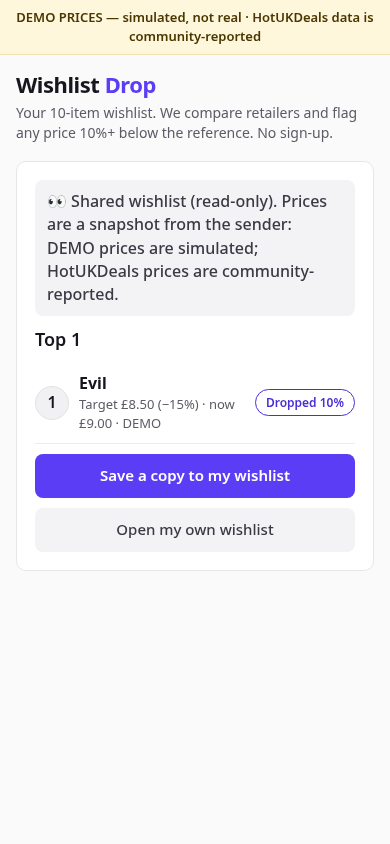
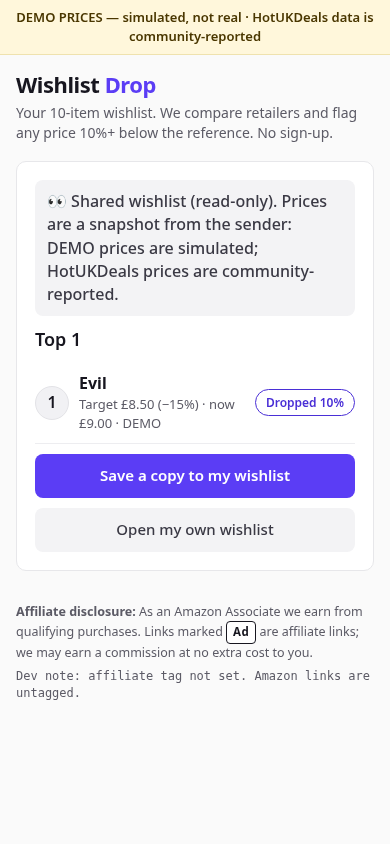
Affiliate links: Amazon UK Buy button (canonical /dp/ASIN, tag only via button, keep existing tags, strip tracking, rel=sponsored, Ad label), disclosure footer, disabled Skimlinks/Sovrn/Awin hooks, AF1-AF4 tests

Changed region(s): [[0.0308, 0.7085, 0.9231, 0.8318]]

diff --git a/build/src.html b/build/src.html
@@ -41,7 +41,11 @@ html:not([data-theme]) .bar{height:6px}html:not([data-theme]) #simBtn{background
 .demo{background:var(--demo-bg);color:var(--demo-ink);text-align:center;font-weight:var(--fw-h);padding:8px;font-size:14px;position:sticky;top:0;z-index:5}
 header{padding:14px 16px 0;max-width:720px;margin:auto}.hrow{display:flex;justify-content:space-between;align-items:center;gap:8px}h1{margin:0;font-size:var(--h1);font-weight:var(--fw-x);letter-spacing:-.01em}h1 span{color:var(--accent-lg)}header p{margin:2px 0 0;color:var(--mut);font-size:14px}
 .theme{display:flex;align-items:center;gap:6px;font-size:13px;color:var(--mut)}.theme label{margin:0;font-weight:var(--fw-b);font-size:13px}.theme select{width:auto;min-height:44px;padding:6px 8px;font-size:14px;border-radius:var(--rs)}
-main{max-width:720px;margin:auto;padding:4px 16px 96px}
+main{max-width:720px;margin:auto;padding:4px 16px 8px}
+.foot-legal{max-width:720px;margin:auto;padding:4px 16px 96px;font-size:12.5px;color:var(--mut)}.foot-legal p{margin:6px 0}.devnote{font-family:ui-monospace,Menlo,monospace;font-size:12px}
+.buy{display:flex;align-items:center;gap:8px;margin-top:8px}.buybtn{display:inline-flex;align-items:center;justify-content:center;min-height:44px;padding:10px 16px;border-radius:var(--rs);background:var(--cta);color:var(--cta-ink);font-weight:var(--fw-h);text-decoration:none;font-size:15px}
+.buybtn:focus-visible{outline:3px solid var(--focus);outline-offset:2px}ol.top .buybtn{min-height:44px;padding:8px 14px;font-size:14px}
+.ad{display:inline-block;font-size:11.5px;font-weight:700;letter-spacing:.04em;padding:2px 6px;border:1px solid currentColor;border-radius:4px;color:var(--ink);background:var(--card)}
 section{background:var(--card);border-radius:var(--r);padding:16px;margin:12px 0;box-shadow:var(--shadow);border:var(--sec-border)}
 h2{font-size:18px;font-weight:var(--fw-h);margin:0 0 10px;display:flex;justify-content:space-between;align-items:center;gap:8px}
 label{display:block;font-weight:var(--fw-b);font-size:14px;margin:10px 0 4px}
@@ -153,6 +157,7 @@ if(t!=='default')window.WD_LOAD_FONTS();})();
  <div class="msg" id="shareMsg" role="status" aria-live="polite"></div></section></div>
 </div>
 </main>
+<footer class="foot-legal" id="legal"><p><b>Affiliate disclosure:</b> As an Amazon Associate we earn from qualifying purchases. Links marked <span class="ad">Ad</span> are affiliate links; we may earn a commission at no extra cost to you.</p><p id="devNote" class="devnote" hidden>Dev note: affiliate tag not set. Amazon links are untagged.</p></footer>
 <div id="dlg" class="dlg" role="dialog" aria-modal="true" aria-labelledby="dlgMsg" hidden><form id="dlgForm" class="dlgbox" novalidate><p id="dlgMsg"></p><div id="dlgInWrap"><label for="dlgIn" class="sr">Your answer</label><input type="text" id="dlgIn" inputmode="decimal" autocomplete="off"></div><div class="row"><button type="button" id="dlgCancel">Cancel</button><button type="submit" class="pri" id="dlgOk">OK</button></div></form></div>
 <div id="storeWarn" class="storewarn" role="alert" hidden>⚠ Your browser isn’t saving data (private mode, blocked or full storage). Your list will be lost when you close this tab.</div>
 <nav class="tabs" id="tabsNav" aria-label="Sections"><div role="tablist" id="tabs" aria-label="Sections"><button role="tab" aria-selected="true" data-t="watch" id="t-watch" aria-controls="tab-watch" tabindex="0">📋<br>Watch</button><button role="tab" aria-selected="false" data-t="alerts" id="t-alerts" aria-controls="tab-alerts" tabindex="-1">🔔<br>Alerts <span id="badge"></span></button><button role="tab" aria-selected="false" data-t="share" id="t-share" aria-controls="tab-share" tabindex="-1">🏆<br>Top 10</button></div></nav>
@@ -168,6 +173,46 @@ var toP=function(n){return Math.round(+n*100)};
 function uid(){return Math.random().toString(36).slice(2,9)}
 function esc(s){return String(s==null?'':s).replace(/[&<>"']/g,function(c){return'&#'+c.charCodeAt(0)+';'})}
 function safeUrl(u){u=String(u||'');return /^https?:\/\//i.test(u)?u:''}
+
+/* ================= Affiliate links =================
+   >>> NATHAN: put your Amazon Associates UK tracking ID in AFFILIATE.amazonUK.tag (e.g. 'wishlistdrop-21'). <<<
+   Empty tag = links stay untagged and a dev note shows "affiliate tag not set".
+   Rules: only the "Buy on Amazon" button is ever tagged (never the item's own link, never automatically);
+   an existing tag= from someone else is kept and ours is NOT added; tracking params are stripped;
+   tagged links get rel="sponsored noopener" and a visible "Ad" label; the footer carries the Amazon disclosure. */
+var AFFILIATE={
+ amazonUK:{tag:''},                                   // <- Amazon Associates UK tag goes here
+ skimlinks:{id:'',enabled:false},                     // non-Amazon hooks: disabled until approved
+ sovrn:{key:'',enabled:false},
+ awin:{publisherId:'',enabled:false}
+};
+(function(o){if(o&&typeof o==='object'){for(var k in o)if(AFFILIATE[k]&&o[k])for(var j in o[k])AFFILIATE[k][j]=o[k][j]}})(window.WD_AFFILIATE); // test/dev override only
+var AMZ_HOST=/^(?:www\.|smile\.|m\.)?amazon\.co\.uk$/i,AMZ_SHORT=/^(?:www\.)?(?:amzn\.to|amzn\.eu)$/i,
+ ASIN_RE=/\/(?:dp|gp\/product|gp\/aw\/d|gp\/offer-listing|exec\/obidos\/ASIN|o\/ASIN)\/([A-Z0-9]{10})(?=[\/?#]|$)/i,
+ TRACKING=/^(utm_.*|ref|ref_|pf_rd_.*|pd_rd_.*|_encoding|psc|qid|sr|crid|sprefix|keywords|th|linkCode|linkId|camp|creative|creativeASIN|ascsubtag|smid|spLa|content-id|dib|dib_tag|gclid|fbclid|mc_.*|social_share|starsLeft|tracking_id)$/i;
+function parseAmazon(u){var url;try{url=new URL(/^https?:\/\//i.test(String(u))?u:'https://'+u)}catch(e){return{kind:'other'}}
+ var h=url.hostname.toLowerCase();if(AMZ_SHORT.test(h))return{kind:'amazon-short',url:url.href};
+ if(!AMZ_HOST.test(h))return{kind:'other',url:url.href};
+ var m=url.pathname.match(ASIN_RE),theirs=url.searchParams.get('tag')||'';
+ return{kind:'amazon',asin:m?m[1].toUpperCase():null,existingTag:theirs,url:url.href}}
+function stripTracking(href){try{var u=new URL(href),keep=[];u.searchParams.forEach(function(v,k){if(!TRACKING.test(k))keep.push([k,v])});u.search='';keep.forEach(function(kv){u.searchParams.append(kv[0],kv[1])});u.hash='';return u.toString()}catch(e){return href}}
+/* Pluggable non-Amazon hooks (Skimlinks / Sovrn / Awin deep links). All disabled: wrap() is never called while enabled=false. */
+var RETAILER_HOOKS=[
+ {id:'skimlinks',enabled:function(){return AFFILIATE.skimlinks.enabled&&!!AFFILIATE.skimlinks.id},wrap:function(u){return 'https://go.skimresources.com/?id='+encodeURIComponent(AFFILIATE.skimlinks.id)+'&url='+encodeURIComponent(u)}},
+ {id:'sovrn',enabled:function(){return AFFILIATE.sovrn.enabled&&!!AFFILIATE.sovrn.key},wrap:function(u){return 'https://redirect.viglink.com?key='+encodeURIComponent(AFFILIATE.sovrn.key)+'&u='+encodeURIComponent(u)}},
+ {id:'awin',enabled:function(){return AFFILIATE.awin.enabled&&!!AFFILIATE.awin.publisherId},wrap:function(u,adv){return adv?'https://www.awin1.com/cread.php?awinmid='+encodeURIComponent(adv)+'&awinaffid='+encodeURIComponent(AFFILIATE.awin.publisherId)+'&ued='+encodeURIComponent(u):null}}];
+/* buyLink(url) -> {show, href, ad, retailer, note}. Pure; used only to build the Buy button. */
+function buyLink(raw){var safe=safeUrl(raw)||(raw&&/^(www\.)?[\w-]+(\.[\w-]+)+\//i.test(raw)?'https://'+raw:'');if(!safe)return{show:false};var a=parseAmazon(safe),tag=String(AFFILIATE.amazonUK.tag||'').trim();
+ if(a.kind==='amazon-short')return{show:true,retailer:'Amazon',href:a.url,ad:false,note:'Short Amazon link (amzn.to/amzn.eu) cannot be resolved in the browser, so it is left untagged.'};
+ if(a.kind==='amazon'){if(!a.asin)return{show:true,retailer:'Amazon',href:stripTracking(a.url),ad:false,note:'No product ID (ASIN) found, so the link is left untagged.'};
+  var base='https://www.amazon.co.uk/dp/'+a.asin;
+  if(a.existingTag)return{show:true,retailer:'Amazon',asin:a.asin,href:base+'?tag='+encodeURIComponent(a.existingTag),ad:false,note:'Link already carries someone else\u2019s tag; kept, ours not added.'};
+  if(!tag)return{show:true,retailer:'Amazon',asin:a.asin,href:base,ad:false,note:'affiliate tag not set'};
+  return{show:true,retailer:'Amazon',asin:a.asin,href:base+'?tag='+encodeURIComponent(tag),ad:true,note:''}}
+ for(var i=0;i<RETAILER_HOOKS.length;i++){var hk=RETAILER_HOOKS[i];if(hk.enabled()){var w=hk.wrap(stripTracking(safe));if(w)return{show:true,retailer:hostOf(safe),href:w,ad:true,note:'',hook:hk.id}}}
+ return{show:false}}
+function buyHtml(raw,where){var b=buyLink(raw);if(!b.show)return'';
+ return'<div class="buy"><a class="buybtn" href="'+esc(b.href)+'" target="_blank" rel="'+(b.ad?'sponsored noopener':'noopener')+'" data-where="'+where+'"'+(b.note?' title="'+esc(b.note)+'"':'')+'>Buy on '+esc(b.retailer)+'</a>'+(b.ad?'<span class="ad" title="Affiliate link: we may earn a commission">Ad</span>':'')+'</div>'}
 function isUrl(s){s=s.trim();return /^(https?:\/\/|www\.)\S+$/i.test(s)||/^[\w-]+(\.[\w-]+)+\/\S*$/.test(s)}
 function nameFromUrl(s){try{var u=new URL(/^https?:/i.test(s)?s:'https://'+s);var segs=u.pathname.split('/').filter(Boolean).map(decodeURIComponent).filter(function(x){return /[a-z]{3}/i.test(x)&&!/^(dp|p|product|products|item|itm|gp|ref|deals)$/i.test(x)});
  var slug=segs.sort(function(a,b){return b.length-a.length})[0];
@@ -246,7 +291,7 @@ function applyRecord(it,r){it.rec=stripPriv(r);it.match=r._match||null;if(r.erro
  if(!it.hist.length)it.hist=[{date:it.added,price:it.orig}];checkHit(it)}
 function checkHit(it){var ok=it.rec&&it.rec.error_state==='ok';var at=ok&&it.cur!=null&&it.cur<=targetOf(it);
  if(at&&!it.hit){var src=it.rec.source==='hukd_rss'?'HotUKDeals (community reported)':(it.rec.label==='DEMO'?'DEMO (simulated)':'Manual');
-  S.alerts.unshift({id:uid(),t:nowIso(),src:src,text:it.name+' hit your '+it.pct+'% target: now '+gbp(it.cur)+' (was '+gbp(it.orig)+', target '+gbp(targetOf(it))+').'+(it.rec.promo_code?' Community-reported code: '+it.rec.promo_code+'.':'')});S.alerts=S.alerts.slice(0,100)}
+  S.alerts.unshift({id:uid(),t:nowIso(),url:it.url||'',src:src,text:it.name+' hit your '+it.pct+'% target: now '+gbp(it.cur)+' (was '+gbp(it.orig)+', target '+gbp(targetOf(it))+').'+(it.rec.promo_code?' Community-reported code: '+it.rec.promo_code+'.':'')});S.alerts=S.alerts.slice(0,100)}
  if(ok)it.hit=at}
 var COMPARE=['demo','hukd_rss','awin_feed','awin_promotions','keepa'];
 function offersFrom(a,it,opts){return a.getOffers?a.getOffers(it,opts):a.getPrice(it,opts).then(function(r){return[r]})}
@@ -260,7 +305,7 @@ function bestOffer(it){return it.offers&&it.offers[0]||null}
 function gapPct(it){var b=bestOffer(it);return b?(it.orig-b.current_price)/it.orig*100:0}
 function srcName(o){return o.source==='hukd_rss'?'HotUKDeals, community reported':o.label==='DEMO'?'DEMO, simulated':o.source}
 function checkDrop(it){var g=gapPct(it),b=bestOffer(it),on=g>=10;
- if(on&&!it.drop10){S.alerts.unshift({id:uid(),t:nowIso(),src:srcName(b),text:'\u2b07\ufe0f '+it.name+' is '+g.toFixed(0)+'% below its reference price: '+gbp(b.current_price)+' at '+b.retailer+' (reference '+gbp(it.orig)+').'})}
+ if(on&&!it.drop10){S.alerts.unshift({id:uid(),t:nowIso(),url:it.url||'',src:srcName(b),text:'\u2b07\ufe0f '+it.name+' is '+g.toFixed(0)+'% below its reference price: '+gbp(b.current_price)+' at '+b.retailer+' (reference '+gbp(it.orig)+').'})}
  it.drop10=on}
 function refreshAll(opts){return Promise.all(S.items.map(function(it){return refreshItem(it,opts)})).then(function(){save();render()})}
 function simulate(){return refreshAll({step:true})}
@@ -344,8 +389,8 @@ function render(){$('count').textContent=S.items.length+'/10';$('welcome').hidde
   '<div class="stats"><div>Original<b>'+gbp(it.orig)+'</b></div><div>Now<b>'+gbp(cur)+'</b></div><div>Change<b class="'+(ch<0?'down':ch>0?'up':'')+'">'+(ch>0?'+':'')+ch.toFixed(1)+'%</b></div><div>Target −'+it.pct+'%<b>'+gbp(t)+'</b></div></div>'+
   '<div class="bar'+(prog>=100?' done':'')+'" role="progressbar" aria-label="Progress to target" aria-valuemin="0" aria-valuemax="100" aria-valuenow="'+Math.round(prog)+'"><i style="width:'+prog+'%"></i></div>'+
   errBox(it)+cmpBox(it)+dealBox(it)+
-  '<div class="foot">'+spark(it.hist||[],t)+'<div class="row" style="flex:0"><button data-a="edit" aria-label="Edit '+esc(it.name)+'">Edit</button><button class="danger" data-a="del" aria-label="Delete '+esc(it.name)+'">Delete</button></div></div>';c.appendChild(d)});
- $('feed').innerHTML=S.alerts.length?S.alerts.map(function(a){return'<div class="alert">🎯 '+esc(a.text)+'<time datetime="'+a.t+'">'+new Date(a.t).toLocaleString('en-GB')+' · '+esc(a.src||'DEMO')+'</time></div>'}).join(''):'<p class="empty">No alerts yet. Try \u201cSimulate a day\u201d.</p>';
+  buyHtml(it.url,'card')+'<div class="foot">'+spark(it.hist||[],t)+'<div class="row" style="flex:0"><button data-a="edit" aria-label="Edit '+esc(it.name)+'">Edit</button><button class="danger" data-a="del" aria-label="Delete '+esc(it.name)+'">Delete</button></div></div>';c.appendChild(d)});
+ $('feed').innerHTML=S.alerts.length?S.alerts.map(function(a){return'<div class="alert">🎯 '+esc(a.text)+'<time datetime="'+a.t+'">'+new Date(a.t).toLocaleString('en-GB')+' · '+esc(a.src||'DEMO')+'</time>'+buyHtml(a.url,'alert')+'</div>'}).join(''):'<p class="empty">No alerts yet. Try \u201cSimulate a day\u201d.</p>';
  $('badge').textContent=S.alerts.length?'('+S.alerts.length+')':'';
  $('topList').innerHTML=topHtml(shareList());
  $('seedBtn').hidden=S.items.some(function(i){return i.example});
@@ -355,7 +400,7 @@ function shareList(){return S.items.map(function(i){return{n:i.name,u:i.url,o:i.
 function rank(list){return list.slice().sort(function(a,b){return(a.c/(a.o*(1-a.p/100)))-(b.c/(b.o*(1-b.p/100)))})}
 function stOf(x){return status({orig:x.o,cur:x.c,pct:x.p,rec:{error_state:x.e||'ok'}})}
 function srcLabel(s){return s==='hukd_rss'?'community reported':s==='demo'?'DEMO':s==='manual'?'manual':'n/a'}
-function topHtml(list){if(!list.length)return'<li class="empty" style="display:block">No items yet.</li>';return rank(list).map(function(x){var st=stOf(x);return'<li><div class="g"><b>'+esc(x.n)+'</b><div class="small">Target '+gbp(Math.round(x.o*(1-x.p/100)))+' (−'+x.p+'%) · now '+gbp(x.c)+' · '+srcLabel(x.s)+'</div></div><span class="pill '+st[1]+'"'+(st[1]=='p-d'||st[1]=='p-t'?pillAttr({orig:x.o,cur:x.c}):'')+'>'+st[0]+'</span></li>'}).join('')}
+function topHtml(list){if(!list.length)return'<li class="empty" style="display:block">No items yet.</li>';return rank(list).map(function(x){var st=stOf(x);return'<li><div class="g"><b>'+esc(x.n)+'</b><div class="small">Target '+gbp(Math.round(x.o*(1-x.p/100)))+' (−'+x.p+'%) · now '+gbp(x.c)+' · '+srcLabel(x.s)+'</div>'+buyHtml(x.u,'top')+'</div><span class="pill '+st[1]+'"'+(st[1]=='p-d'||st[1]=='p-t'?pillAttr({orig:x.o,cur:x.c}):'')+'>'+st[0]+'</span></li>'}).join('')}
 $('cards').onclick=function(e){var b=e.target.closest('button');if(!b)return;var id=b.closest('.card').dataset.id,it=S.items.find(function(x){return x.id==id}),a=b.dataset.a;
  if(a=='del'){ask('Delete \u201c'+it.name+'\u201d?',{ok:'Delete',danger:true}).then(function(y){if(!y)return;S.items=S.items.filter(function(x){return x.id!=id});if(editing==id)resetForm();save();render()})}
  else if(a=='retry'){refreshItem(it).then(function(){save();render()})}
@@ -427,6 +472,9 @@ var hasThemeParam=false;try{hasThemeParam=new URLSearchParams(location.search).h
 $('themeBox').hidden=!(hasThemeParam||curTheme()!=='default');
 $('themeSel').value=curTheme();$('themeSel').onchange=function(){setTheme(this.value,true)};
 WD.setTheme=setTheme;WD.theme=curTheme;
+
+$('devNote').hidden=!!String(AFFILIATE.amazonUK.tag||'').trim();if(!$('devNote').hidden&&window.console)console.info('[Wishlist Drop] affiliate tag not set: Amazon links are untagged.');
+WD.affiliate={config:AFFILIATE,parseAmazon:parseAmazon,buyLink:buyLink,stripTracking:stripTracking,hooks:RETAILER_HOOKS};
 
 /* ================= Boot ================= */
 if(!storageOk())storeWarn();

diff --git a/index.html b/index.html
@@ -41,7 +41,11 @@ html:not([data-theme]) .bar{height:6px}html:not([data-theme]) #simBtn{background
 .demo{background:var(--demo-bg);color:var(--demo-ink);text-align:center;font-weight:var(--fw-h);padding:8px;font-size:14px;position:sticky;top:0;z-index:5}
 header{padding:14px 16px 0;max-width:720px;margin:auto}.hrow{display:flex;justify-content:space-between;align-items:center;gap:8px}h1{margin:0;font-size:var(--h1);font-weight:var(--fw-x);letter-spacing:-.01em}h1 span{color:var(--accent-lg)}header p{margin:2px 0 0;color:var(--mut);font-size:14px}
 .theme{display:flex;align-items:center;gap:6px;font-size:13px;color:var(--mut)}.theme label{margin:0;font-weight:var(--fw-b);font-size:13px}.theme select{width:auto;min-height:44px;padding:6px 8px;font-size:14px;border-radius:var(--rs)}
-main{max-width:720px;margin:auto;padding:4px 16px 96px}
+main{max-width:720px;margin:auto;padding:4px 16px 8px}
+.foot-legal{max-width:720px;margin:auto;padding:4px 16px 96px;font-size:12.5px;color:var(--mut)}.foot-legal p{margin:6px 0}.devnote{font-family:ui-monospace,Menlo,monospace;font-size:12px}
+.buy{display:flex;align-items:center;gap:8px;margin-top:8px}.buybtn{display:inline-flex;align-items:center;justify-content:center;min-height:44px;padding:10px 16px;border-radius:var(--rs);background:var(--cta);color:var(--cta-ink);font-weight:var(--fw-h);text-decoration:none;font-size:15px}
+.buybtn:focus-visible{outline:3px solid var(--focus);outline-offset:2px}ol.top .buybtn{min-height:44px;padding:8px 14px;font-size:14px}
+.ad{display:inline-block;font-size:11.5px;font-weight:700;letter-spacing:.04em;padding:2px 6px;border:1px solid currentColor;border-radius:4px;color:var(--ink);background:var(--card)}
 section{background:var(--card);border-radius:var(--r);padding:16px;margin:12px 0;box-shadow:var(--shadow);border:var(--sec-border)}
 h2{font-size:18px;font-weight:var(--fw-h);margin:0 0 10px;display:flex;justify-content:space-between;align-items:center;gap:8px}
 label{display:block;font-weight:var(--fw-b);font-size:14px;margin:10px 0 4px}
@@ -153,6 +157,7 @@ if(t!=='default')window.WD_LOAD_FONTS();})();
  <div class="msg" id="shareMsg" role="status" aria-live="polite"></div></section></div>
 </div>
 </main>
+<footer class="foot-legal" id="legal"><p><b>Affiliate disclosure:</b> As an Amazon Associate we earn from qualifying purchases. Links marked <span class="ad">Ad</span> are affiliate links; we may earn a commission at no extra cost to you.</p><p id="devNote" class="devnote" hidden>Dev note: affiliate tag not set. Amazon links are untagged.</p></footer>
 <div id="dlg" class="dlg" role="dialog" aria-modal="true" aria-labelledby="dlgMsg" hidden><form id="dlgForm" class="dlgbox" novalidate><p id="dlgMsg"></p><div id="dlgInWrap"><label for="dlgIn" class="sr">Your answer</label><input type="text" id="dlgIn" inputmode="decimal" autocomplete="off"></div><div class="row"><button type="button" id="dlgCancel">Cancel</button><button type="submit" class="pri" id="dlgOk">OK</button></div></form></div>
 <div id="storeWarn" class="storewarn" role="alert" hidden>⚠ Your browser isn’t saving data (private mode, blocked or full storage). Your list will be lost when you close this tab.</div>
 <nav class="tabs" id="tabsNav" aria-label="Sections"><div role="tablist" id="tabs" aria-label="Sections"><button role="tab" aria-selected="true" data-t="watch" id="t-watch" aria-controls="tab-watch" tabindex="0">📋<br>Watch</button><button role="tab" aria-selected="false" data-t="alerts" id="t-alerts" aria-controls="tab-alerts" tabindex="-1">🔔<br>Alerts <span id="badge"></span></button><button role="tab" aria-selected="false" data-t="share" id="t-share" aria-controls="tab-share" tabindex="-1">🏆<br>Top 10</button></div></nav>
@@ -171,6 +176,46 @@ var toP=function(n){return Math.round(+n*100)};
 function uid(){return Math.random().toString(36).slice(2,9)}
 function esc(s){return String(s==null?'':s).replace(/[&<>"']/g,function(c){return'&#'+c.charCodeAt(0)+';'})}
 function safeUrl(u){u=String(u||'');return /^https?:\/\//i.test(u)?u:''}
+
+/* ================= Affiliate links =================
+   >>> NATHAN: put your Amazon Associates UK tracking ID in AFFILIATE.amazonUK.tag (e.g. 'wishlistdrop-21'). <<<
+   Empty tag = links stay untagged and a dev note shows "affiliate tag not set".
+   Rules: only the "Buy on Amazon" button is ever tagged (never the item's own link, never automatically);
+   an existing tag= from someone else is kept and ours is NOT added; tracking params are stripped;
+   tagged links get rel="sponsored noopener" and a visible "Ad" label; the footer carries the Amazon disclosure. */
+var AFFILIATE={
+ amazonUK:{tag:''},                                   // <- Amazon Associates UK tag goes here
+ skimlinks:{id:'',enabled:false},                     // non-Amazon hooks: disabled until approved
+ sovrn:{key:'',enabled:false},
+ awin:{publisherId:'',enabled:false}
+};
+(function(o){if(o&&typeof o==='object'){for(var k in o)if(AFFILIATE[k]&&o[k])for(var j in o[k])AFFILIATE[k][j]=o[k][j]}})(window.WD_AFFILIATE); // test/dev override only
+var AMZ_HOST=/^(?:www\.|smile\.|m\.)?amazon\.co\.uk$/i,AMZ_SHORT=/^(?:www\.)?(?:amzn\.to|amzn\.eu)$/i,
+ ASIN_RE=/\/(?:dp|gp\/product|gp\/aw\/d|gp\/offer-listing|exec\/obidos\/ASIN|o\/ASIN)\/([A-Z0-9]{10})(?=[\/?#]|$)/i,
+ TRACKING=/^(utm_.*|ref|ref_|pf_rd_.*|pd_rd_.*|_encoding|psc|qid|sr|crid|sprefix|keywords|th|linkCode|linkId|camp|creative|creativeASIN|ascsubtag|smid|spLa|content-id|dib|dib_tag|gclid|fbclid|mc_.*|social_share|starsLeft|tracking_id)$/i;
+function parseAmazon(u){var url;try{url=new URL(/^https?:\/\//i.test(String(u))?u:'https://'+u)}catch(e){return{kind:'other'}}
+ var h=url.hostname.toLowerCase();if(AMZ_SHORT.test(h))return{kind:'amazon-short',url:url.href};
+ if(!AMZ_HOST.test(h))return{kind:'other',url:url.href};
+ var m=url.pathname.match(ASIN_RE),theirs=url.searchParams.get('tag')||'';
+ return{kind:'amazon',asin:m?m[1].toUpperCase():null,existingTag:theirs,url:url.href}}
+function stripTracking(href){try{var u=new URL(href),keep=[];u.searchParams.forEach(function(v,k){if(!TRACKING.test(k))keep.push([k,v])});u.search='';keep.forEach(function(kv){u.searchParams.append(kv[0],kv[1])});u.hash='';return u.toString()}catch(e){return href}}
+/* Pluggable non-Amazon hooks (Skimlinks / Sovrn / Awin deep links). All disabled: wrap() is never called while enabled=false. */
+var RETAILER_HOOKS=[
+ {id:'skimlinks',enabled:function(){return AFFILIATE.skimlinks.enabled&&!!AFFILIATE.skimlinks.id},wrap:function(u){return 'https://go.skimresources.com/?id='+encodeURIComponent(AFFILIATE.skimlinks.id)+'&url='+encodeURIComponent(u)}},
+ {id:'sovrn',enabled:function(){return AFFILIATE.sovrn.enabled&&!!AFFILIATE.sovrn.key},wrap:function(u){return 'https://redirect.viglink.com?key='+encodeURIComponent(AFFILIATE.sovrn.key)+'&u='+encodeURIComponent(u)}},
+ {id:'awin',enabled:function(){return AFFILIATE.awin.enabled&&!!AFFILIATE.awin.publisherId},wrap:function(u,adv){return adv?'https://www.awin1.com/cread.php?awinmid='+encodeURIComponent(adv)+'&awinaffid='+encodeURIComponent(AFFILIATE.awin.publisherId)+'&ued='+encodeURIComponent(u):null}}];
+/* buyLink(url) -> {show, href, ad, retailer, note}. Pure; used only to build the Buy button. */
+function buyLink(raw){var safe=safeUrl(raw)||(raw&&/^(www\.)?[\w-]+(\.[\w-]+)+\//i.test(raw)?'https://'+raw:'');if(!safe)return{show:false};var a=parseAmazon(safe),tag=String(AFFILIATE.amazonUK.tag||'').trim();
+ if(a.kind==='amazon-short')return{show:true,retailer:'Amazon',href:a.url,ad:false,note:'Short Amazon link (amzn.to/amzn.eu) cannot be resolved in the browser, so it is left untagged.'};
+ if(a.kind==='amazon'){if(!a.asin)return{show:true,retailer:'Amazon',href:stripTracking(a.url),ad:false,note:'No product ID (ASIN) found, so the link is left untagged.'};
+  var base='https://www.amazon.co.uk/dp/'+a.asin;
+  if(a.existingTag)return{show:true,retailer:'Amazon',asin:a.asin,href:base+'?tag='+encodeURIComponent(a.existingTag),ad:false,note:'Link already carries someone else\u2019s tag; kept, ours not added.'};
+  if(!tag)return{show:true,retailer:'Amazon',asin:a.asin,href:base,ad:false,note:'affiliate tag not set'};
+  return{show:true,retailer:'Amazon',asin:a.asin,href:base+'?tag='+encodeURIComponent(tag),ad:true,note:''}}
+ for(var i=0;i<RETAILER_HOOKS.length;i++){var hk=RETAILER_HOOKS[i];if(hk.enabled()){var w=hk.wrap(stripTracking(safe));if(w)return{show:true,retailer:hostOf(safe),href:w,ad:true,note:'',hook:hk.id}}}
+ return{show:false}}
+function buyHtml(raw,where){var b=buyLink(raw);if(!b.show)return'';
+ return'<div class="buy"><a class="buybtn" href="'+esc(b.href)+'" target="_blank" rel="'+(b.ad?'sponsored noopener':'noopener')+'" data-where="'+where+'"'+(b.note?' title="'+esc(b.note)+'"':'')+'>Buy on '+esc(b.retailer)+'</a>'+(b.ad?'<span class="ad" title="Affiliate link: we may earn a commission">Ad</span>':'')+'</div>'}
 function isUrl(s){s=s.trim();return /^(https?:\/\/|www\.)\S+$/i.test(s)||/^[\w-]+(\.[\w-]+)+\/\S*$/.test(s)}
 function nameFromUrl(s){try{var u=new URL(/^https?:/i.test(s)?s:'https://'+s);var segs=u.pathname.split('/').filter(Boolean).map(decodeURIComponent).filter(function(x){return /[a-z]{3}/i.test(x)&&!/^(dp|p|product|products|item|itm|gp|ref|deals)$/i.test(x)});
  var slug=segs.sort(function(a,b){return b.length-a.length})[0];
@@ -249,7 +294,7 @@ function applyRecord(it,r){it.rec=stripPriv(r);it.match=r._match||null;if(r.erro
  if(!it.hist.length)it.hist=[{date:it.added,price:it.orig}];checkHit(it)}
 function checkHit(it){var ok=it.rec&&it.rec.error_state==='ok';var at=ok&&it.cur!=null&&it.cur<=targetOf(it);
  if(at&&!it.hit){var src=it.rec.source==='hukd_rss'?'HotUKDeals (community reported)':(it.rec.label==='DEMO'?'DEMO (simulated)':'Manual');
-  S.alerts.unshift({id:uid(),t:nowIso(),src:src,text:it.name+' hit your '+it.pct+'% target: now '+gbp(it.cur)+' (was '+gbp(it.orig)+', target '+gbp(targetOf(it))+').'+(it.rec.promo_code?' Community-reported code: '+it.rec.promo_code+'.':'')});S.alerts=S.alerts.slice(0,100)}
+  S.alerts.unshift({id:uid(),t:nowIso(),url:it.url||'',src:src,text:it.name+' hit your '+it.pct+'% target: now '+gbp(it.cur)+' (was '+gbp(it.orig)+', target '+gbp(targetOf(it))+').'+(it.rec.promo_code?' Community-reported code: '+it.rec.promo_code+'.':'')});S.alerts=S.alerts.slice(0,100)}
  if(ok)it.hit=at}
 var COMPARE=['demo','hukd_rss','awin_feed','awin_promotions','keepa'];
 function offersFrom(a,it,opts){return a.getOffers?a.getOffers(it,opts):a.getPrice(it,opts).then(function(r){return[r]})}
@@ -263,7 +308,7 @@ function bestOffer(it){return it.offers&&it.offers[0]||null}
 function gapPct(it){var b=bestOffer(it);return b?(it.orig-b.current_price)/it.orig*100:0}
 function srcName(o){return o.source==='hukd_rss'?'HotUKDeals, community reported':o.label==='DEMO'?'DEMO, simulated':o.source}
 function checkDrop(it){var g=gapPct(it),b=bestOffer(it),on=g>=10;
- if(on&&!it.drop10){S.alerts.unshift({id:uid(),t:nowIso(),src:srcName(b),text:'\u2b07\ufe0f '+it.name+' is '+g.toFixed(0)+'% below its reference price: '+gbp(b.current_price)+' at '+b.retailer+' (reference '+gbp(it.orig)+').'})}
+ if(on&&!it.drop10){S.alerts.unshift({id:uid(),t:nowIso(),url:it.url||'',src:srcName(b),text:'\u2b07\ufe0f '+it.name+' is '+g.toFixed(0)+'% below its reference price: '+gbp(b.current_price)+' at '+b.retailer+' (reference '+gbp(it.orig)+').'})}
  it.drop10=on}
 function refreshAll(opts){return Promise.all(S.items.map(function(it){return refreshItem(it,opts)})).then(function(){save();render()})}
 function simulate(){return refreshAll({step:true})}
@@ -347,8 +392,8 @@ function render(){$('count').textContent=S.items.length+'/10';$('welcome').hidde
   '<div class="stats"><div>Original<b>'+gbp(it.orig)+'</b></div><div>Now<b>'+gbp(cur)+'</b></div><div>Change<b class="'+(ch<0?'down':ch>0?'up':'')+'">'+(ch>0?'+':'')+ch.toFixed(1)+'%</b></div><div>Target −'+it.pct+'%<b>'+gbp(t)+'</b></div></div>'+
   '<div class="bar'+(prog>=100?' done':'')+'" role="progressbar" aria-label="Progress to target" aria-valuemin="0" aria-valuemax="100" aria-valuenow="'+Math.round(prog)+'"><i style="width:'+prog+'%"></i></div>'+
   errBox(it)+cmpBox(it)+dealBox(it)+
-  '<div class="foot">'+spark(it.hist||[],t)+'<div class="row" style="flex:0"><button data-a="edit" aria-label="Edit '+esc(it.name)+'">Edit</button><button class="danger" data-a="del" aria-label="Delete '+esc(it.name)+'">Delete</button></div></div>';c.appendChild(d)});
- $('feed').innerHTML=S.alerts.length?S.alerts.map(function(a){return'<div class="alert">🎯 '+esc(a.text)+'<time datetime="'+a.t+'">'+new Date(a.t).toLocaleString('en-GB')+' · '+esc(a.src||'DEMO')+'</time></div>'}).join(''):'<p class="empty">No alerts yet. Try \u201cSimulate a day\u201d.</p>';
+  buyHtml(it.url,'card')+'<div class="foot">'+spark(it.hist||[],t)+'<div class="row" style="flex:0"><button data-a="edit" aria-label="Edit '+esc(it.name)+'">Edit</button><button class="danger" data-a="del" aria-label="Delete '+esc(it.name)+'">Delete</button></div></div>';c.appendChild(d)});
+ $('feed').innerHTML=S.alerts.length?S.alerts.map(function(a){return'<div class="alert">🎯 '+esc(a.text)+'<time datetime="'+a.t+'">'+new Date(a.t).toLocaleString('en-GB')+' · '+esc(a.src||'DEMO')+'</time>'+buyHtml(a.url,'alert')+'</div>'}).join(''):'<p class="empty">No alerts yet. Try \u201cSimulate a day\u201d.</p>';
  $('badge').textContent=S.alerts.length?'('+S.alerts.length+')':'';
  $('topList').innerHTML=topHtml(shareList());
  $('seedBtn').hidden=S.items.some(function(i){return i.example});
@@ -358,7 +403,7 @@ function shareList(){return S.items.map(function(i){return{n:i.name,u:i.url,o:i.
 function rank(list){return list.slice().sort(function(a,b){return(a.c/(a.o*(1-a.p/100)))-(b.c/(b.o*(1-b.p/100)))})}
 function stOf(x){return status({orig:x.o,cur:x.c,pct:x.p,rec:{error_state:x.e||'ok'}})}
 function srcLabel(s){return s==='hukd_rss'?'community reported':s==='demo'?'DEMO':s==='manual'?'manual':'n/a'}
-function topHtml(list){if(!list.length)return'<li class="empty" style="display:block">No items yet.</li>';return rank(list).map(function(x){var st=stOf(x);return'<li><div class="g"><b>'+esc(x.n)+'</b><div class="small">Target '+gbp(Math.round(x.o*(1-x.p/100)))+' (−'+x.p+'%) · now '+gbp(x.c)+' · '+srcLabel(x.s)+'</div></div><span class="pill '+st[1]+'"'+(st[1]=='p-d'||st[1]=='p-t'?pillAttr({orig:x.o,cur:x.c}):'')+'>'+st[0]+'</span></li>'}).join('')}
+function topHtml(list){if(!list.length)return'<li class="empty" style="display:block">No items yet.</li>';return rank(list).map(function(x){var st=stOf(x);return'<li><div class="g"><b>'+esc(x.n)+'</b><div class="small">Target '+gbp(Math.round(x.o*(1-x.p/100)))+' (−'+x.p+'%) · now '+gbp(x.c)+' · '+srcLabel(x.s)+'</div>'+buyHtml(x.u,'top')+'</div><span class="pill '+st[1]+'"'+(st[1]=='p-d'||st[1]=='p-t'?pillAttr({orig:x.o,cur:x.c}):'')+'>'+st[0]+'</span></li>'}).join('')}
 $('cards').onclick=function(e){var b=e.target.closest('button');if(!b)return;var id=b.closest('.card').dataset.id,it=S.items.find(function(x){return x.id==id}),a=b.dataset.a;
  if(a=='del'){ask('Delete \u201c'+it.name+'\u201d?',{ok:'Delete',danger:true}).then(function(y){if(!y)return;S.items=S.items.filter(function(x){return x.id!=id});if(editing==id)resetForm();save();render()})}
  else if(a=='retry'){refreshItem(it).then(function(){save();render()})}
@@ -430,6 +475,9 @@ var hasThemeParam=false;try{hasThemeParam=new URLSearchParams(location.search).h
 $('themeBox').hidden=!(hasThemeParam||curTheme()!=='default');
 $('themeSel').value=curTheme();$('themeSel').onchange=function(){setTheme(this.value,true)};
 WD.setTheme=setTheme;WD.theme=curTheme;
+
+$('devNote').hidden=!!String(AFFILIATE.amazonUK.tag||'').trim();if(!$('devNote').hidden&&window.console)console.info('[Wishlist Drop] affiliate tag not set: Amazon links are untagged.');
+WD.affiliate={config:AFFILIATE,parseAmazon:parseAmazon,buyLink:buyLink,stripTracking:stripTracking,hooks:RETAILER_HOOKS};
 
 /* ================= Boot ================= */
 if(!storageOk())storeWarn();

diff --git a/qa/qa.js b/qa/qa.js
@@ -9,6 +9,7 @@ async function page(o={}){const ctx=await b.newContext({viewport:o.vp||{width:39
  await p.exposeFunction('__xss',()=>{p.xss=true});
  if(!o.noHook)await p.exposeFunction('WD_DIALOG_HOOK',(m,t)=>{p.dialogs.push(m);if(/xss/i.test(m))p.xss=true;return t=='prompt'?(p.ans??''):true});
  p.on('dialog',d=>{p.dialogs.push(d.message());if(/xss/i.test(d.message()))p.xss=true;d.accept(d.type()=='prompt'?(p.ans??''):undefined)});
+ if(o.aff)await ctx.addInitScript(a=>{window.WD_AFFILIATE=a},o.aff);
  await p.goto(URL0+(o.q||'')+(o.hash||''));if(o.wait!==false)await p.waitForSelector('html[data-ready="1"]',{timeout:15000}).catch(()=>{});return p}
 const S=p=>p.evaluate(()=>WD.state());
 async function add(p,what,price,o={}){await p.fill('#what',what);if(o.name!=null){await p.fill('#name',o.name)}await p.fill('#price',price==null?'':String(price));
@@ -105,7 +106,7 @@ await T('TH2','Theme picker hidden on plain default URL; shown with ?theme=; swi
 await T('TH3','Share card follows the theme (canvas colours differ per theme)',async()=>{const px={};for(const t of THEMES){const q=await page({q:'?theme='+t});await q.evaluate(()=>document.fonts&&document.fonts.ready);px[t]=await q.evaluate(()=>{const c=WD.drawCard();const d=c.getContext('2d').getImageData(30,60,1,1).data;return d[0]+','+d[1]+','+d[2]});await q.context().close()}
  ok(new Set(Object.values(px)).size>=3,JSON.stringify(px));ok(px.drop==='255,102,0',JSON.stringify(px));return JSON.stringify(px)});
 await T('TH4','axe-core colour contrast + WCAG AA per theme (watch w/ all statuses + error panel, alerts, top 10 + card, read-only, dialog)',async()=>{const axe=fs.readFileSync('/tmp/wdt/node_modules/axe-core/axe.min.js','utf8');const rep=[];let bad=[];
- for(const t of THEMES){const q=await page({q:'?theme='+t,noHook:true});await q.evaluate(()=>document.fonts&&document.fonts.ready);await add(q,'Contrast kettle',10);
+ for(const t of THEMES){const q=await page({q:'?theme='+t,noHook:true,aff:{amazonUK:{tag:'contrast-21'}}});await q.evaluate(()=>document.fonts&&document.fonts.ready);await add(q,'https://www.amazon.co.uk/dp/B0BX2L8PBT',10,{name:'Contrast kettle'});ok(await q.isVisible('#cards .buy .ad'),'no Ad label in '+t);
   for(let i=0;i<25;i++)await q.click('#simBtn');await q.evaluate(()=>document.querySelector('details').open=true);await q.click('button[data-err=changed]');await q.waitForTimeout(80);
   const run=async(where)=>{await q.addScriptTag({content:axe});const r=await q.evaluate(()=>axe.run(document,{runOnly:['wcag2a','wcag2aa','wcag21aa']}));const cc=r.violations.filter(v=>v.id==='color-contrast');const n=cc.reduce((a,v)=>a+v.nodes.length,0);
    const chk=(r.passes.find(v=>v.id==='color-contrast')||{nodes:[]}).nodes.length;rep.push(t+' '+where+': contrast pass nodes '+chk+', fail '+n+(r.violations.length?' | violations: '+r.violations.map(v=>v.id+'('+v.impact+')×'+v.nodes.length).join(','):''));
@@ -115,6 +116,48 @@ await T('TH4','axe-core colour contrast + WCAG AA per theme (watch w/ all status
   const su=await q.evaluate(()=>WD.shareUrl());await q.goto(su);await q.waitForSelector('#roView:not([hidden])');await run('read-only');
   ok(!q.errs.length,q.errs.join('|'));await q.context().close()}
  fs.writeFileSync(Q+'themes-contrast.txt',rep.join('\n')+'\n');ok(!bad.length,bad.join(' || '));return 'see qa/themes-contrast.txt'});
+await T('AF1','ASIN extraction + canonicalisation (dp, gp/product, gp/aw/d, slugs, query, mobile, smile, existing tag, short, non-Amazon)',async()=>{const r=await p.evaluate(()=>{const P=WD.affiliate.parseAmazon;const C=[
+ ['https://www.amazon.co.uk/dp/B0BX2L8PBT','amazon','B0BX2L8PBT',''],
+ ['https://www.amazon.co.uk/Apple-AirPods-Pro-2nd-generation/dp/B0CHWV2MYX/ref=sr_1_1?crid=X&keywords=airpods&qid=1&sr=8-1','amazon','B0CHWV2MYX',''],
+ ['https://www.amazon.co.uk/gp/product/B08N5WRWNW?pf_rd_r=ABC&utm_source=x','amazon','B08N5WRWNW',''],
+ ['https://www.amazon.co.uk/gp/aw/d/B09B8V1LZ3/','amazon','B09B8V1LZ3',''],
+ ['amazon.co.uk/Some-Slug/dp/b07pxgqhhq','amazon','B07PXGQHHQ',''],
+ ['https://m.amazon.co.uk/dp/B0BX2L8PBT?th=1&psc=1','amazon','B0BX2L8PBT',''],
+ ['https://smile.amazon.co.uk/dp/B0BX2L8PBT','amazon','B0BX2L8PBT',''],
+ ['https://www.amazon.co.uk/dp/B0BX2L8PBT?tag=someoneelse-21&ref=x','amazon','B0BX2L8PBT','someoneelse-21'],
+ ['https://www.amazon.co.uk/exec/obidos/ASIN/B0BX2L8PBT','amazon','B0BX2L8PBT',''],
+ ['https://www.amazon.co.uk/s?k=headphones','amazon',null,''],
+ ['https://amzn.to/3xYzAbC','amazon-short',undefined,undefined],
+ ['https://amzn.eu/d/abc123','amazon-short',undefined,undefined],
+ ['https://www.amazon.com/dp/B0BX2L8PBT','other',undefined,undefined],
+ ['https://www.amazon.co.uk.evil.com/dp/B0BX2L8PBT','other',undefined,undefined],
+ ['https://www.currys.co.uk/products/sony-123.html','other',undefined,undefined]];
+ return C.map(([u,k,asin,tag])=>{const x=P(u);return{u,ok:x.kind===k&&x.asin===asin&&x.existingTag===tag,got:JSON.stringify(x)}})});const bad=r.filter(x=>!x.ok);ok(!bad.length,bad.map(x=>x.u+' → '+x.got).join(' | '));return r.length+' URLs'});
+await T('AF2','Tag set: Buy button → canonical /dp/ASIN?tag=, tracking stripped, rel=sponsored noopener, visible Ad label; item link untouched; existing tag kept (no Ad)',async()=>{const q=await page({aff:{amazonUK:{tag:'nathantest-21'}}});await clear(q);
+ await add(q,'https://www.amazon.co.uk/Sony-WH-1000XM5/dp/B09XS7JWHH/ref=sr_1_3?crid=1&keywords=sony&qid=99&utm_source=x',300,{name:'Sony XM5'});
+ await add(q,'https://www.amazon.co.uk/dp/B0BX2L8PBT?tag=someoneelse-21&ref=abc',50,{name:'Theirs'});
+ await add(q,'https://www.currys.co.uk/products/kettle-123.html',30,{name:'Currys kettle'});await q.waitForTimeout(150);
+ const c=await q.evaluate(()=>[...document.querySelectorAll('#cards .card')].map(cd=>{const b=cd.querySelector('.buybtn');const a=cd.querySelector('.ct a');return{name:cd.querySelector('h3').textContent,href:b&&b.getAttribute('href'),rel:b&&b.rel,ad:!!cd.querySelector('.buy .ad'),adVisible:!!(cd.querySelector('.buy .ad')&&cd.querySelector('.buy .ad').offsetHeight>0),own:a&&a.getAttribute('href')}}));
+ const s0=c.find(x=>x.name=='Sony XM5'),s1=c.find(x=>x.name=='Theirs'),s2=c.find(x=>x.name=='Currys kettle');
+ ok(s0.href==='https://www.amazon.co.uk/dp/B09XS7JWHH?tag=nathantest-21',s0.href);ok(s0.rel==='sponsored noopener',s0.rel);ok(s0.ad&&s0.adVisible,'Ad label missing');ok(!/tag=/.test(s0.own)&&/utm_source/.test(s0.own),'item link was modified: '+s0.own);
+ ok(s1.href==='https://www.amazon.co.uk/dp/B0BX2L8PBT?tag=someoneelse-21',s1.href);ok(!s1.ad&&s1.rel==='noopener','their tag got Ad/sponsored');
+ ok(s2.href===null,'non-Amazon got a buy button while hooks disabled');ok(await q.evaluate(()=>WD.affiliate.hooks.every(h=>!h.enabled())));
+ ok(!(await q.isVisible('#devNote')),'dev note visible with tag set');ok(/As an Amazon Associate we earn from qualifying purchases/.test(await q.textContent('#legal')));
+ const before=await q.evaluate(()=>location.href);ok(!/amazon/.test(before));ok(!q.errs.length,q.errs.join('|'));
+ // alerts + shared view carry the buy button
+ await q.evaluate(()=>{const it=WD.state().items.find(i=>i.name=='Sony XM5');it.src='manual';it.cur=20000});await q.evaluate(()=>WD.refreshAll());await q.click('[data-t=alerts]');
+ const al=await q.evaluate(()=>{const b=document.querySelector('#feed .buybtn');return b&&{href:b.getAttribute('href'),ad:!!b.parentNode.querySelector('.ad')}});ok(al&&al.href.endsWith('?tag=nathantest-21')&&al.ad,'alert buy: '+JSON.stringify(al));
+ const su=await q.evaluate(()=>WD.shareUrl());await q.goto(su);await q.waitForSelector('#roView:not([hidden])');
+ const ro=await q.evaluate(()=>[...document.querySelectorAll('#roList .buybtn')].map(b=>[b.getAttribute('href'),!!b.parentNode.querySelector('.ad'),b.rel]));ok(ro.length==2,'shared view buttons '+JSON.stringify(ro));ok(ro.some(x=>x[0].endsWith('?tag=nathantest-21')&&x[1]&&x[2]=='sponsored noopener'));ok(ro.some(x=>x[0].endsWith('?tag=someoneelse-21')&&!x[1]));
+ await q.context().close()});
+await T('AF3','Tag empty (default): untagged canonical link, no Ad label, dev note "affiliate tag not set", disclosure shown; short links untagged with note',async()=>{const q=await page();await clear(q);
+ await add(q,'https://www.amazon.co.uk/gp/product/B08N5WRWNW?utm_medium=email',99,{name:'Echo'});await add(q,'https://amzn.to/3xYzAbC',20,{name:'Short'});await q.waitForTimeout(100);
+ const c=await q.evaluate(()=>[...document.querySelectorAll('#cards .card')].map(cd=>{const b=cd.querySelector('.buybtn');return{n:cd.querySelector('h3').textContent,href:b&&b.getAttribute('href'),title:b&&b.title,rel:b&&b.rel,ad:!!cd.querySelector('.buy .ad')}}));
+ const e=c.find(x=>x.n=='Echo'),sh=c.find(x=>x.n=='Short');ok(e.href==='https://www.amazon.co.uk/dp/B08N5WRWNW'&&!e.ad&&e.rel=='noopener'&&e.title=='affiliate tag not set',JSON.stringify(e));
+ ok(sh.href==='https://amzn.to/3xYzAbC'&&!sh.ad&&/cannot be resolved/.test(sh.title),JSON.stringify(sh));
+ ok(await q.isVisible('#devNote'));ok(/affiliate tag not set/.test(await q.textContent('#devNote')));ok(await q.isVisible('#legal'));ok(!q.errs.length,q.errs.join('|'));await q.context().close()});
+await T('AF4','Hooks stay disabled unless explicitly enabled; enabling one wraps non-Amazon links (with Ad), Amazon logic unaffected',async()=>{const q=await page({aff:{skimlinks:{id:'123X456',enabled:true}}});const r=await q.evaluate(()=>[WD.affiliate.buyLink('https://www.currys.co.uk/p/kettle?utm_source=a&colour=red'),WD.affiliate.buyLink('https://www.amazon.co.uk/dp/B0BX2L8PBT')]);
+ ok(r[0].show&&r[0].ad&&r[0].hook=='skimlinks'&&r[0].href.includes(encodeURIComponent('https://www.currys.co.uk/p/kettle?colour=red')),JSON.stringify(r[0]));ok(r[1].href=='https://www.amazon.co.uk/dp/B0BX2L8PBT'&&!r[1].ad,JSON.stringify(r[1]));await q.context().close()});
 await T('E1','No JS errors in main session',async()=>{ok(!p.errs.length,p.errs.join(' | '))});
 await b.close();fs.writeFileSync(Q+'results.json',JSON.stringify(res,null,1));
 for(const r of res)console.log((r.ok?'PASS':'FAIL')+' '+r.id+' '+r.name+(r.note?' — '+r.note:''));console.log(res.filter(r=>r.ok).length+'/'+res.length+' passed')})();

diff --git a/README.md b/README.md
@@ -19,6 +19,14 @@ Add `?theme=` to the URL. The **Theme** picker appears in the header only when `
 
 The DEMO banner and labels show in every theme. All four themes pass an axe-core WCAG AA scan with no colour-contrast failures (`qa/themes-contrast.txt`). White text never sits on #FF6600 (2.9:1). Black is used instead, and small orange text is #B34700. The share card PNG follows the theme. Fonts load from Google Fonts (free) without blocking the page, with system fonts offline.
 
+## Affiliate links & disclosure
+**As an Amazon Associate we earn from qualifying purchases.** Links marked **Ad** are affiliate links, and we may earn a commission at no extra cost to you.
+
+- **Where the tag goes:** `build/src.html`, in the `var AFFILIATE = {...}` block under "Affiliate links". Set `amazonUK: { tag: 'yourtag-21' }`, then run `node build/build.js` to regenerate `index.html`. While the tag is empty, links stay untagged and the footer shows "Dev note: affiliate tag not set".
+- **Only the Buy button is tagged:** the "Buy on Amazon" button (item cards, alerts, Top 10, shared view) is the only thing tagged. It points to `https://www.amazon.co.uk/dp/ASIN?tag=…`, with tracking parameters stripped, `rel="sponsored noopener"` and a visible "Ad" label.
+- **Never tagged:** the item's own link, anything opened automatically, links that already carry someone else's `tag=` (theirs is kept and ours isn't added), and amzn.to / amzn.eu short links (they can't be resolved in the browser).
+- **Other retailers:** Skimlinks, Sovrn and Awin deep-link hooks are in `RETAILER_HOOKS`. They're disabled (`enabled:false`) until those programmes approve the site.
+
 ## ⚠ Data labels: please read
 - **DEMO prices are simulated, not real.** Items on the DEMO source (including "DEMO Amazon UK" and "DEMO Argos") follow a random walk. The banner and tags say so everywhere.
 - **HotUKDeals data is community reported.** Prices and codes come from user posts on the public HotUKDeals RSS feed and are unverified. Codes are only taken from a post's description text, never generated.

diff --git a/qa/QA-REPORT.md b/qa/QA-REPORT.md
@@ -123,3 +123,16 @@ The default theme was reworked to match clean's restraint, with purple #5b3df5 a
 - **Theme picker:** hidden on the plain default URL. It shows only when `?theme=` is present or a non-default theme is stored.
 
 TH2 was updated to cover this. Tests: qa.js 62/62, build/test.js 23/23. axe contrast: 0 failures in all 4 themes (`qa/themes-contrast.txt`). Screenshots: `themes/purple-clean-{watch,alerts,top10,sharecard}.png`.
+
+## Affiliate links (2026-10-21)
+The config is in `build/src.html` → `var AFFILIATE = { amazonUK: { tag: '' }, ... }`. Only the "Buy on Amazon" button is ever tagged: on item cards, alerts, the Top 10 and the shared read-only view. The item's own link is never changed.
+- **Canonicalisation:** links become `https://www.amazon.co.uk/dp/ASIN`. The ASIN is recognised in dp/, gp/product/, gp/aw/d/, gp/offer-listing/, exec/obidos/ASIN/ and o/ASIN/, on the www., m. and smile. hosts.
+- **Tracking params:** stripped.
+- **Existing tags:** an existing `tag=` is kept and ours is not added. That button gets no "Ad" label and no `sponsored`.
+- **Short links:** amzn.to / amzn.eu are left untagged, with a note.
+- **Tagged links:** get `rel="sponsored noopener"` and a visible "Ad" label.
+- **Footer disclosure:** "As an Amazon Associate we earn from qualifying purchases."
+- **Empty tag:** links are untagged, and the footer shows a dev note "affiliate tag not set".
+- **Non-Amazon hooks:** Skimlinks, Sovrn and Awin are in `RETAILER_HOOKS`, all disabled.
+
+Tests: AF1 (15 URL cases), AF2 (tag set: cards/alerts/shared view, existing tag kept, item link untouched, non-Amazon gets no button), AF3 (empty tag + short link), AF4 (hooks only when enabled). TH4 now includes a tagged Buy button and Ad label in every theme, with 0 contrast failures.
